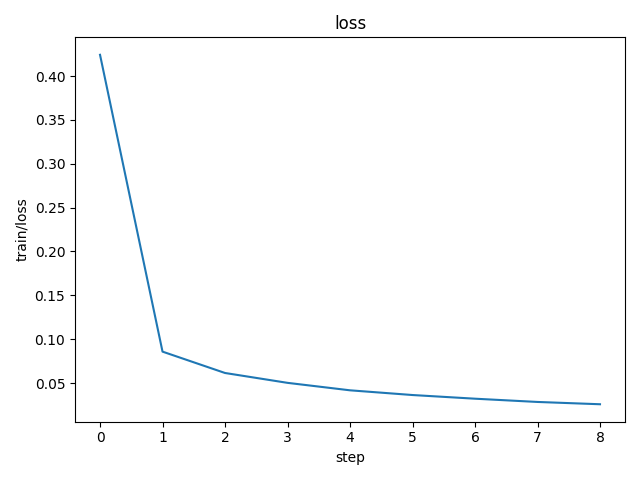
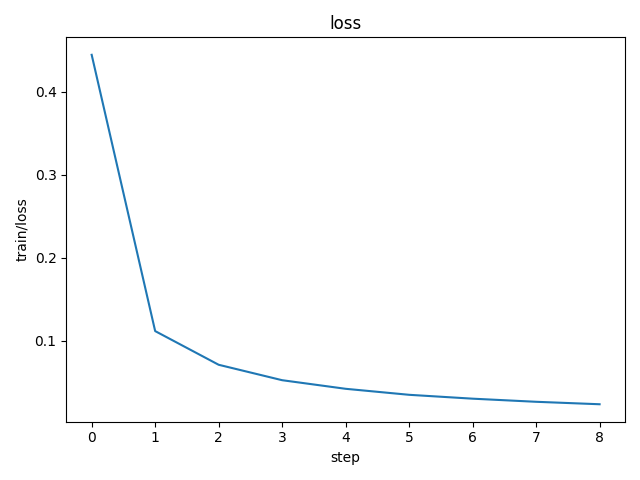
CML PR for 39cf7cd6 [skip ci]

diff --git a/results/evaluate/report.md b/results/evaluate/report.md
@@ -4,24 +4,24 @@ metrics.json
 
 |   dice_multi |
 |--------------|
-|     0.915473 |
+|     0.895759 |
 
-![REGION_1-24_1024_2048_0_1024.png](plots/images/REGION_1-24_1024_2048_0_1024.png)
+![REGION_1-24_1024_2048_2048_3072.png](plots/images/REGION_1-24_1024_2048_2048_3072.png)
 
-![REGION_1-24_1024_2048_2816_3840.png](plots/images/REGION_1-24_1024_2048_2816_3840.png)
+![REGION_2-4_1136_2160_2816_3840.png](plots/images/REGION_2-4_1136_2160_2816_3840.png)
 
-![REGION_1-24_1136_2160_1024_2048.png](plots/images/REGION_1-24_1136_2160_1024_2048.png)
+![REGION_3-8_0_1024_2816_3840.png](plots/images/REGION_3-8_0_1024_2816_3840.png)
 
-![REGION_1-24_1136_2160_2048_3072.png](plots/images/REGION_1-24_1136_2160_2048_3072.png)
+![REGION_4-12_1024_2048_0_1024.png](plots/images/REGION_4-12_1024_2048_0_1024.png)
 
-![REGION_2-19_0_1024_0_1024.png](plots/images/REGION_2-19_0_1024_0_1024.png)
+![REGION_4-12_1024_2048_2048_3072.png](plots/images/REGION_4-12_1024_2048_2048_3072.png)
 
-![REGION_2-19_1136_2160_0_1024.png](plots/images/REGION_2-19_1136_2160_0_1024.png)
+![REGION_4-22_1136_2160_2048_3072.png](plots/images/REGION_4-22_1136_2160_2048_3072.png)
 
-![REGION_2-4_1024_2048_2048_3072.png](plots/images/REGION_2-4_1024_2048_2048_3072.png)
+![REGION_6-13_0_1024_1024_2048.png](plots/images/REGION_6-13_0_1024_1024_2048.png)
 
-![REGION_3-25_1024_2048_1024_2048.png](plots/images/REGION_3-25_1024_2048_1024_2048.png)
+![REGION_6-20_1024_2048_1024_2048.png](plots/images/REGION_6-20_1024_2048_1024_2048.png)
 
-![REGION_3-8_0_1024_2048_3072.png](plots/images/REGION_3-8_0_1024_2048_3072.png)
+![REGION_7-3_1024_2048_0_1024.png](plots/images/REGION_7-3_1024_2048_0_1024.png)
 
-![REGION_4-12_0_1024_2816_3840.png](plots/images/REGION_4-12_0_1024_2816_3840.png)
+![REGION_8-24_1136_2160_1024_2048.png](plots/images/REGION_8-24_1136_2160_1024_2048.png)

diff --git a/results/train/report.md b/results/train/report.md
@@ -8,12 +8,12 @@ params.yaml
 
 metrics.json
 
-| train                        | eval                           |   dice_multi |   step |
-|------------------------------|--------------------------------|--------------|--------|
-| {'loss': 0.0257855374366045} | {'loss': 0.022797705605626106} |     0.912109 |      8 |
+| train                          | eval                           |   dice_multi |   step |
+|--------------------------------|--------------------------------|--------------|--------|
+| {'loss': 0.023301448673009872} | {'loss': 0.014317748136818409} |     0.940677 |      8 |
 
 ![static/dice_multi](static/dice_multi.png)
 
-![static/eval/loss](static/eval/loss.png)
-
 ![static/train/loss](static/train/loss.png)
+
+![static/eval/loss](static/eval/loss.png)
